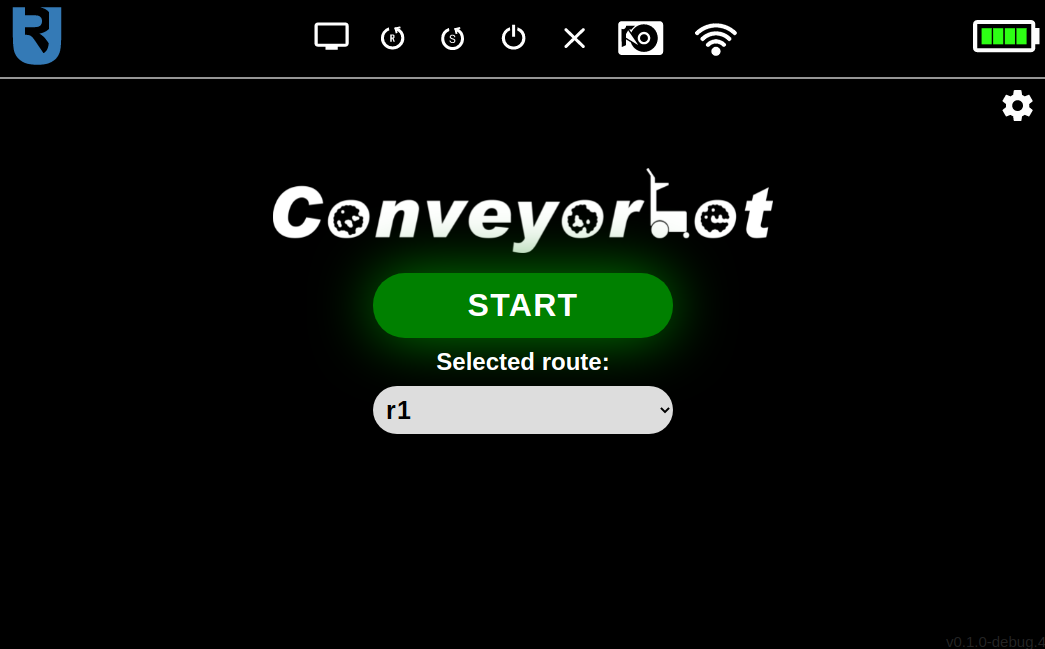
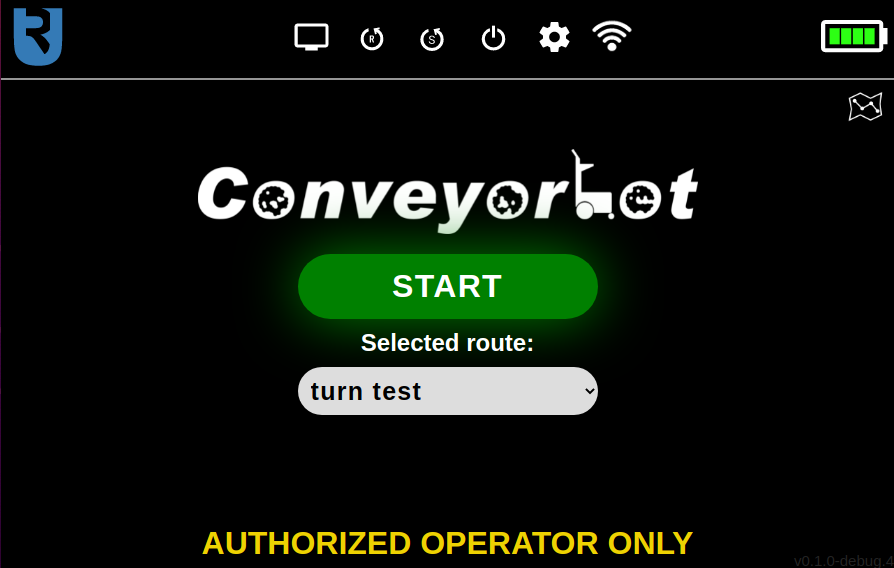
Fixed touchscreen and marker placement instuctions

diff --git a/ConveyorBot/ConveyorBot_usage_with_touchscreen.md b/ConveyorBot/ConveyorBot_usage_with_touchscreen.md
@@ -7,8 +7,9 @@ permalink: ConveyorBot_usage_with_touchscreen
 #### &uarr;[top](https://ubiquityrobotics.github.io/ConveyorBot_learn/)
 
 # Touchscreen UI
+
 ## Overview
-In this section we will present the web application made for the 7'' touchscreen monitor for Raspberry Pi. Its main functionality is to manage routes for ConveyorBot. When the touchscreen application is started, first the “Loading screen” is shown. This screen automatically switches to “Control panel screen”, after the robot is initialized. You should avoid using the robot while it is initializing. On the top of all screens, there is a menu bar, which offers functionalities like rebooting the robot, monitoring battery percentage, navigating to “Control panel screen”, etc. On the top right corner of the “Control panel screen”, there is a gear icon which leads to “Settings screen”. On that screen, the routes can be set up.  
+In this section we will present the web application made for the 7'' touchscreen monitor for Raspberry Pi. Its main functionality is to manage routes for ConveyorBot. When the touchscreen application is started, first the “Loading screen” is shown. This screen automatically switches to “Control panel screen”, after the robot is initialized. You should avoid using the robot while it is initializing. On the top of all screens, there is a menu bar, which offers functionalities like rebooting the robot, monitoring battery percentage, navigating to “Control panel screen”, etc. On the top right corner of the “Control panel screen”, there is a map icon which leads to “Route settings screen”. On that screen, the routes can be set up.  
 Touchscreen UI adds an additional three features to the basic ConveyorBot usability:
 - In order for the ConveyorBot to start moving on the route, START button on the touchscreen should be pressed
 - During the drive, the robot can be stopped by pressing the STOP button (START should be pressed to continue)
@@ -17,23 +18,27 @@ Touchscreen UI adds an additional three features to the basic ConveyorBot usabil
 ## Control panel screen
 The most noticeable part of the “Control panel screen” is the big green “Start/Stop button”, with “START” written on it. After pressing it, it changes its color to red and its text to “STOP”. It is used for the robot to start or stop following the markers of the currently selected route. When the robot finishes the route by stopping on a STOP marker, this button changes its color to blue and its text to “CONTINUE”. Now, when pressing this button, the robot will start following the route again from its beginning.  
 The route can be easily selected in the dropdown menu, which is located below the “Start/Stop button”. To edit, create or delete a route, the gear icon in the top right corner can be pressed, which leads to the “Settings screen”.  
-The Control panel screen with route "r1" selected is shown on the image below.  
+The Control panel screen with route "turn test" selected is shown on the image below.  
 <img src="ConveyorBot/assets/control_panel_screen.png" >
+
 ## Menu bar
-The menu bar is present on the top of all screens. On its left side, there is a Ubiquity Robotics’ logo, which is actually a button that always leads to the “Control panel screen”. On the right side of the menu bar, there is a battery level indicator. When the battery goes under 40%, a low battery popup will be shown. When this happens, you should stop using the robot and start charging it.  In the middle, there are several buttons, each having its own functionality. The first one (from left to right), shaped as a computer monitor, leads to the “Debug screen”, on which the user can monitor the camera’s image stream and detected markers or move the robot with the software joystick. The second button, shaped as a letter “R” in a circular arrow, prompts the user to reboot the robot. The third button, shaped as the letter “S” in a circular arrow, prompts the user to reboot the robot’s software. This is useful, because it functions in a similar way as rebooting the robot, but is faster than it. The fourth button, shaped as an on/off symbol, prompts the user to turn off the robot. The fourth button, shaped as a letter “X”, prompts the user to exit the touchscreen application and navigate to the Raspberry Pi’s desktop. The fifth button opens a prompt, which can be used to record ROS’ topics into a “bag file”. This is used for debugging purposes. The sixth button is a WiFi state indicator. If the robot is connected to the WiFi, this button has a regular WiFi icon shape, indicating the WiFi strength. If the WiFi is disconnected, it has the same shape, but with a cross symbol drawn over it. If the WiFi is in the hotspot mode, it has a shape of two regular WiFi icons rotated by 90° to left and right. Pressing on this icon displays the WiFi info, which is the IP address, SSID and the hostname.
-## Settings screen
+The menu bar is present on the top of all screens. On its left side, there is a Ubiquity Robotics’ logo, which is actually a button that always leads to the “Control panel screen”. On the right side of the menu bar, there is a battery level indicator. When the battery goes under 40%, a low battery popup will be shown. When this happens, you should stop using the robot and start charging it.  In the middle, there are several buttons, each having its own functionality. The first one (from left to right), shaped as a computer monitor, leads to the “Debug screen”, on which the user can monitor the camera’s image stream and detected markers or move the robot with the software joystick. The second button, shaped as a letter “R” in a circular arrow, prompts the user to reboot the robot. The third button, shaped as the letter “S” in a circular arrow, prompts the user to reboot the robot’s software. This is useful, because it functions in a similar way as rebooting the robot, but is faster than it. The fourth button, shaped as an on/off symbol, prompts the user to turn off the robot. The fifth button, shaped as a sprocket, leads the user to the "Debug settings" screen. On this screen there are additional settings for updating and recording ROS’ topics into a “bag file”. This is used for debugging purposes. The sixth button is a WiFi state indicator. If the robot is connected to the WiFi, this button has a regular WiFi icon shape, indicating the WiFi strength. If the WiFi is disconnected, it has the same shape, but with a cross symbol drawn over it. If the WiFi is in the hotspot mode, it has a shape of two regular WiFi icons rotated by 90° to left and right. Pressing on this icon displays the WiFi info, which is the IP address, SSID and the hostname. Here you can also connect to a new WiFi access point by entering the SSID and password into appropriate fields and clicking on "Connect to the new WiFi" button.
+
+## Route settings screen
 On the left side of this screen, there is a route selection part. To add a new route, the “+” shaped button below all routes can be pressed. When clicking on any of the routes displayed here, the route editor will be displayed on the right side of the screen, where you can edit the selected route.  
 The route editor has two columns. In the left one, the markers to follow can be specified and on the right part, the markers to ignore can be specified. The specified markers can also be rearranged by dragging and dropping them. The drag and drop functionality can be disabled, so that the list of markers can be scrolled up and down, without accidentally rearranging the markers. This can be done by clicking on the “lock/unlock” button above the left column. The function of “markers to follow” and “markers to ignore” and instructions on how to correctly set up a route will be described in the next section.  
 To delete the route, which is currently being edited, click on the button with the bin icon on the bottom of the screen.  
 The settings screen is shown on the image below.  
 <img src="ConveyorBot/assets/settings_screen.png" >
+
 ## Route management
-The basic ConveyorBot usability is very limited. The route management functionality allows ConveyorBot robot to navigate itself in a more advanced manner. If you press the settings button on the Control Panel screen, you'll see the main route management page. This was  described already in the previous section of this page.  
+The basic ConveyorBot usability is very limited. The route management functionality allows ConveyorBot robot to navigate itself in a more advanced manner. If you press the route settings button on the Control Panel screen, you'll see the main route management page. This was  described already in the previous section of this page.  
 Now we will tell you how to properly set up a route. An analogy for how the route setup works is the way somebody navigates you while driving a car. The navigator only tells you where you have to turn in the crossroads - he doesn’t tell you that you have to go straight on a road which is itself straight (and has no other ways to turn), or to stop where there is already a stop sign. So, to set up a route on which the robot will drive, you have to specify only TURN markers in the crossroads of the route. Actually, all other TURN markers (the ones which are not specified in the route plan) are ignored by default. You don’t have to specify GO, STOP or BIDIR markers (but you have to do this in a special case, specified later in this section). To get more information about all types of markers, navigate to the [Marker Types and Placing Markers in the Desired Location](marker_types_and_placing_them.md) section.  
 To specify the order of turns in crossroads, put the numbers of TURN markers, which mark the appropriate turns, into the left column of the route editor in the correct order.  
 If you want to completely ignore a marker, put it into the right (“Don’t follow”) column. An example where this would be useful would be if you have multiple robots driving on the same route, and you put some STOP markers into the route and you want only some robots to stop on them, you can put those STOP markers into the ignore list on the robots which shouldn’t stop on them.  
 When creating the route, you have to be careful that the first marker is close enough for the robot to detect it, otherwise the robot won't start. You can see if the first marker is detected in the Debug screen. It should have a green outline on the camera image.  
-A special case, where you have to specify GO, STOP and BIDIR markers in the route is, if there are two markers from the same crossroads in the route one after another. This would happen, for example, when the route goes from a crossroad to the STOP marker, which is directed back to the same crossroad. In this case, this STOP marker also has to be specified in the marker list. In general, at least one marker on a part of the route which goes out of the crossroad and then back to the same crossroad has to be specified.
+A special case, where you have to specify GO, STOP and BIDIR markers in the route is, if there are two markers from the same crossroads in the route one after another. This would happen, for example, when the route goes from a crossroad to the STOP marker, which is directed back to the same crossroad. In this case, this STOP marker also has to be specified in the marker list. In general, at least one marker on a part of the route which goes out of the crossroad and then back to the same crossroad has to be specified. This is a current issue and it will be resolved in further updates.
+
 ## Remainder route
 When performing an action which would override an unfinished route, a remainder of that route is saved as a route with name “\<remainder\>”. This is useful, because if the user accidentally selects a different route or exits the software, he/she won’t have to manually drive the robot to the end/start of the route, but the robot will just continue where it left by selecting the “\<remainder\>” route.  
 Depending on where the robot was interrupted, the remainder might be one marker too long - the first marker of the remainder route might not be visible by the robot anymore. In that case, the user should delete the first marker by manually editing the remainder route.

diff --git a/ConveyorBot/marker_types_and_placing_them.md b/ConveyorBot/marker_types_and_placing_them.md
@@ -16,14 +16,9 @@ The ConveyorBot is navigating itself using our floor stickers called Fiducials. 
 |  **Turn marker** is made for creating crossroads. Crossroad is a couple of markers in the same location (they must not overlap!), where each is pointing in an arbitrary/different direction. Purpose of Turn markers and crossroads is to change the driving direction of the ConveyorBot. | <img src="ConveyorBot/assets/turn_marker.jpg" >  |
 |  **Bidirectional marker** is the only marker with 2 arrows in it. ConveyorBot drives allong the arrow that requires less robot rotation. Bidirectional marker is good for two-way routes where ConveyorBot requires to move in both directions for example narrow aisles where there is not enough space for both a forward and return path. | <img src="ConveyorBot/assets/bidirectional_marker.jpg" >  |
 
-ConveyorBot is enabled to be used either with STag or ArUco markers. The analogy of marker types is the same for both.
+ConveyorBot is enabled to be used either with STag or ArUco markers. The analogy of marker types is the same for both. The recommended and default type of markers is STag.
 
-Each marker has a unique id, while a number is unique only to the pack denoted in the upper part of the marker as `Pack: X`.
-Besides generating packs of fiducial markers, configuration files (.json) named pack-X-info.json are generated inside `ground_fiducials` package, to which the ConveyorBot software will refer to when mapping IDs to NUMBERs.
-It is important to have the printed fiducials correspond to the correct .json that was generated at the same time.
-This way marker types are correctly distinguished which correspond to the correct ConveyorBot manevers.
-
-
+Each marker has a unique id, which is written on it. This way marker types are correctly distinguished which correspond to the correct ConveyorBot manevers.
 
 ## How to place the markers
 
